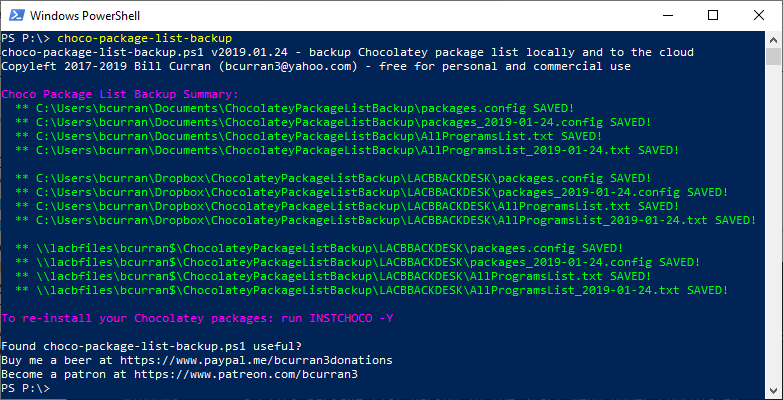
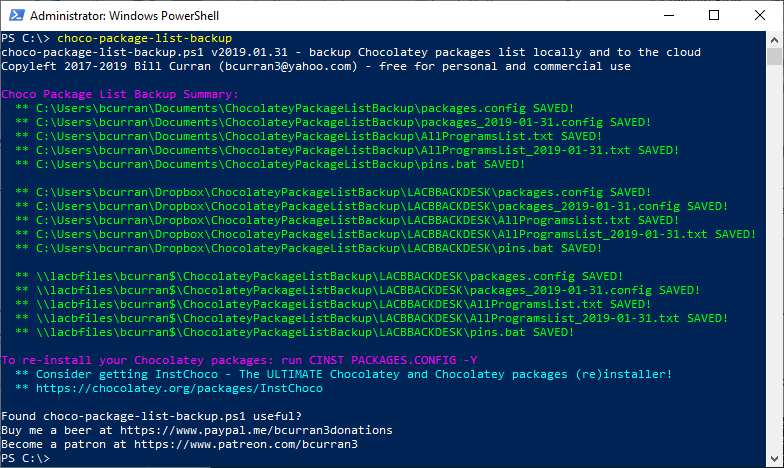
CPLB v2019.01.31

diff --git a/choco-package-list-backup/readme.md b/choco-package-list-backup/readme.md
@@ -59,6 +59,7 @@ To use choco:// protocol URLs, install [(unofficial) choco:// Protocol support ]
 * From Windows, click Chocolatey Package List Backup in the Windows Start Menu or Package List Backup inside the Chocolatey folder if [Chocolatey Shortcuts](https://chocolatey.org/packages/choco-shortcuts-winconfig) is installed.
 
 ###CHANGELOG:
+* 2019.01.31 - file saving functions re-written and optimized, check for errors caused by other Chocolatey instances
 * 2019.01.29 - fixed bug where iCloudDrive preference wasn't checked correctly, thanks sandscap-sc!
 * 2019.01.24 - now saves your pinned package information to pins.bat, added saving to c:\users\Public when run from system account (e.g. scheduled task), fixed error attempting to create files under system account Documents folder which doesn't exist, packages.config now properly UTF-8 encoded, speed optimizations, minor cosmetic changes
 * 2019.01.04 - 2019.01.02 didn't get packaged with the install and uninstall scripts! - fixed (GitHub bit me)
